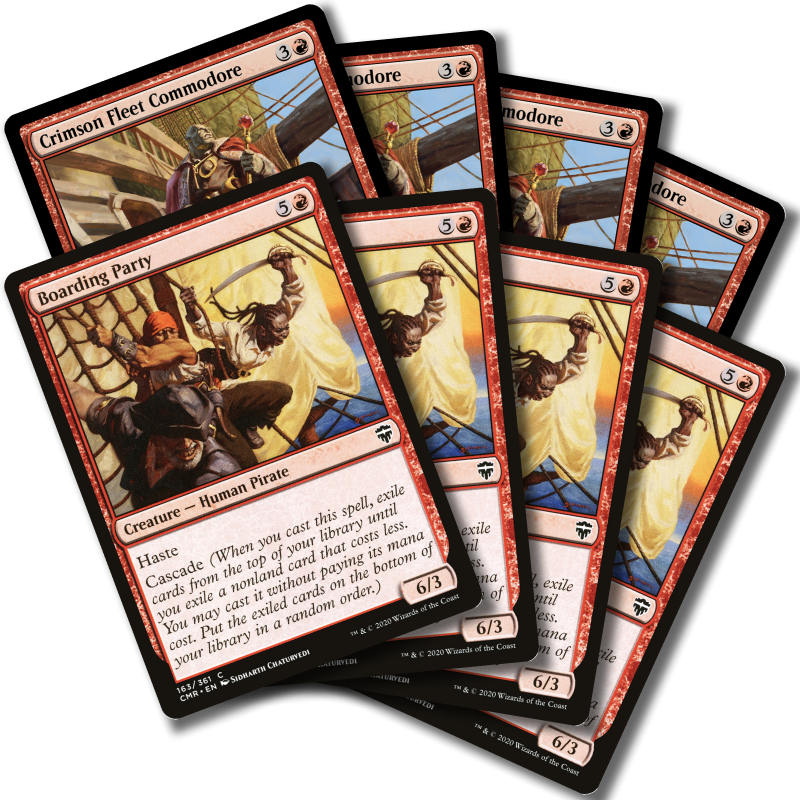
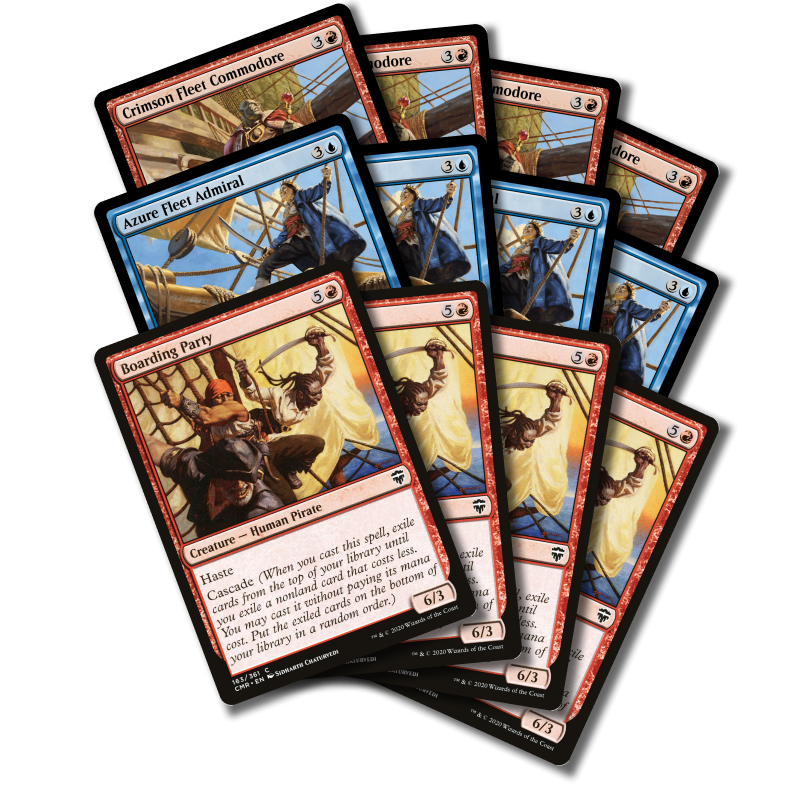
added dominik, fixed bug in german for discords

diff --git a/index.html b/index.html
@@ -85,6 +85,7 @@
                 <div class="prize-item">
                     <img src="img/Prizes/Sidhart.png" alt="Prize 3" loading="lazy">
                     <p>4x Crimson Fleet Comodore Foil<br>
+                        4x Azure Fleet Admiral Foil<br>
                        4x Boarding Party Foil<br>
                        Signiert von Sidharth Chaturvedi 
                     </p>
@@ -103,6 +104,13 @@
                         Signiert von Paupergeddon<br> Gewinner Pietro Bragioto
                      </p>
                 </div>
+                <div class="prize-item">
+                    <img src="img/Prizes/Dominik.png" alt="Prize 6" loading="lazy">
+                    <p>4x Negate Foil<br>
+                        4x Abrade Foil<br>
+                        Signiert von by Dominik Mayer
+                     </p>
+                </div>
             </div>
             <p class="more-to-announce"><b>More to be announced ...</b></p>
         </section>
@@ -116,7 +124,7 @@
                
 
                 <p id="info2">🧙♂ Egal, ob du ein erfahrener Pauperista bist oder ganz neu im Format, dieses Event solltest du nicht verpassen. Tritt gegen Gleichgesinnte an, zeige dein Können und sei Teil des größten Pauper-Turniers in München. 🏆</p>
-                <p id="info4">Pauper To The People ist eine Initiative des <a href="https://www.tastymtg.de">Tasty MTG Podcasts</a>. <br> Also hör mal rein oder tritt unserem <br class="brIphone"> <a href="https://discord.gg/zwpK8EWTrV"><img class="discordIMG" src="img/TastyPauperCrew.png" alt="Pauper Discord Server" ></a> oder unserem <br class="brIphone"> <a href="https://discord.gg/dUSJYqun7H"><img class="discordIMG" src="img/PauperSpezl.png" alt="Munich Pauper Spezl Discord"></a> bei.</p>
+                <p id="info4">Pauper To The People ist eine Initiative des <a href="https://www.tastymtg.de">Tasty MTG Podcasts</a>. <br> Also hör mal rein oder tritt unserem <br class="brIphone"> <a href="https://discord.gg/zwpK8EWTrV"><img class="discordIMG" src="img/TastyPauperCrew.png" alt="Pauper Discord Server" >Pauper Discord Server</a> oder unserem <br class="brIphone"> <a href="https://discord.gg/dUSJYqun7H"><img class="discordIMG" src="img/PauperSpezl.png" alt="Munich Pauper Spezl Discord">Munich Pauper Spezl Discord</a> bei.</p>
             </div>
         </section>
 

diff --git a/indexEN.html b/indexEN.html
@@ -97,6 +97,7 @@
                 <div class="prize-item">
                     <img src="img/Prizes/Sidhart.png" alt="Prize 3" loading="lazy">
                     <p>4x Crimson Fleet Commodore Foil<br>
+                       4x Azure Fleet Admiral Foil<br>
                        4x Boarding Party Foil<br>
                        Signed by Sidharth Chaturvedi 
                     </p>
@@ -113,6 +114,13 @@
                     <p>4x Archaeomancer<br>
                         4x Sunscape Familiar<br>
                         Signed by Paupergeddon<br> Winner Pietro Bragioto
+                     </p>
+                </div>
+                <div class="prize-item">
+                    <img src="img/Prizes/Dominik.png" alt="Prize 6" loading="lazy">
+                    <p>4x Negate Foil<br>
+                        4x Abrade Foil<br>
+                        Signed by Dominik Mayer
                      </p>
                 </div>
             </div>

diff --git a/styles.css b/styles.css
@@ -646,7 +646,7 @@ h3 {
 /* Media query for screens larger than 1902px */
 @media (min-width: 1902px) {
     .prize-item {
-        flex: 1 1 calc(20% - 20px);
-        max-width: calc(20% - 20px);
+        flex: 1 1 calc(30% - 20px);
+        max-width: calc(40% - 20px);
     }
 }
